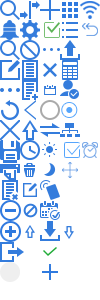
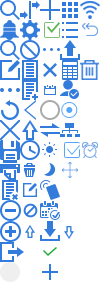
css img html

Changed region(s): [[0.81, 0.18, 0.99, 0.27]]

diff --git a/新建合同范本.html b/新建合同范本.html
@@ -12,9 +12,9 @@
 <div class="header clearfix">
     <a href="#" class="block floatleft"><img src="img/logo.jpg"/></a>
     <ul class="nav floatleft clearfix">
-        <li><a href="#" class="current">个人信息</a></li>
+        <li><a href="#">个人信息</a></li>
         <li><a href="#">档案管理</a></li>
-        <li><a href="#">考勤管理</a></li>
+        <li><a href="#" class="current">考勤管理</a></li>
         <li><a href="#">绩效管理</a></li>
         <li><a href="#">工资管理</a></li>
     </ul>
@@ -49,10 +49,18 @@
     <div class="container leftMain">
         <div class="container">
             <div class="Contract">
-                <div class="ContractTitle bg-white aligncenter">
-                    <div class="has-general">
+                <div class="ContractTitle bg-white clearfix">
+                    <div class="has-general marl20 floatleft">
                         <input type="text" placeholder="请填写合同范本名称">
-                        <label class="control-label">请填写姓名</label>
+                        <label class="control-label">请填写合同范本名称</label>
+                    </div>
+                    <div class="floatright color-8 mart20 marr20 clearfix">
+                        <span>提前</span>
+                        <div class="has-general width-50 inlineblock">
+                            <input type="text" class="width-50" placeholder="">
+                            <label class="control-label">天数</label>
+                        </div>
+                        <span>天提醒</span>
                     </div>
                 </div>
                 <div class="ContractMain mart20 bg-white">

diff --git a/css/hrstyle.css b/css/hrstyle.css
@@ -1,5 +1,7 @@
 .header{width:100%;height:50px;line-height:50px;background:#222;}
 .header .floatright{height:50px;}
+.header div.floatright{width:300px;}
+.header a.block{height:50px;}
 .nav li,.navItem li{float:left;height:50px;margin-left:20px;}
 .nav li a,.navItem li a{display:block;height:50px;line-height:50px;color:#eee;font-size:14px;padding:0 12px;}
 .nav li a.current{background:#efefef;color:#222;}
@@ -10,7 +12,7 @@
 .layoutMid{top:210px;}
 /*.layout.jscroll{margin-right:-8px;}*/
 .leftMain{position:relative;}
-.container{margin:0 12px;position: relative;}/*margin-right:13px;*/
+.container{height:100%;margin:0 12px;position: relative;}/*margin-right:13px;*/
 .container .container{margin:0;}
 .userInfo{height:80px;}
 .userTxt{height:60px;border-right:1px solid #efefef;padding:20px 30px 0 0;}
@@ -125,6 +127,8 @@ span.block,.userInfoTable td .dataNormal{height:30px;line-height:30px;margin-top
 .ContractTitle .has-general{width:600px;margin:0 auto;padding:10px 0;}
 .ContractTitle .has-general input{width:600px;height:38px;line-height:38px;}
 .ContractTitle .has-general label{line-height:38px;}
+.ContractTitle .floatright .has-general input{border-width:0 0 1px 0;height:26px;line-height:26px;}
+.ContractTitle .floatright .has-general label,.ContractTitle .floatright .has-general {height:26px;line-height:26px;padding:0;}
 /*组织架构*/
 .tree{min-height:500px;padding:20px;}
 .treeBig{padding-bottom:0;}

diff --git a/日历设置.html b/日历设置.html
@@ -112,6 +112,7 @@
                     </div>
                     <a href="#" class="iconBtn floatright marr20 marl20"><i class="icon icon-plus"></i></a>
                     <a href="#" class="iconBtn floatright marl20"><i class="icon icon-edit"></i></a>
+                    <a href="#" class="iconBtn floatright marl20"><i class="icon icon-delete-large"></i></a>
                     <div class="has-general floatright intBox nomar mart5 marr15 widtd-180">
                         <label class="control-label">职能员工日历</label>
                         <em class="arrow"></em>

diff --git a/css/global.css b/css/global.css
@@ -307,6 +307,7 @@ a:hover .icon,a.current .icon,a.current:hover .icon-check,a.current .icon-set,.i
 .icon-plus{background-position:-40px 0;}
 .icon-plus-mini{background-position:-40px -262px;}
 .icon-delete{background-position:-20px -160px;}
+.icon-delete-large{background-position:-79px -60px;}
 .icon-move{background-position:-60px -160px;}
 .icon-off-mini{background-position:-40px -60px;}
 .icon-revert{background-position:-80px -20px;}
